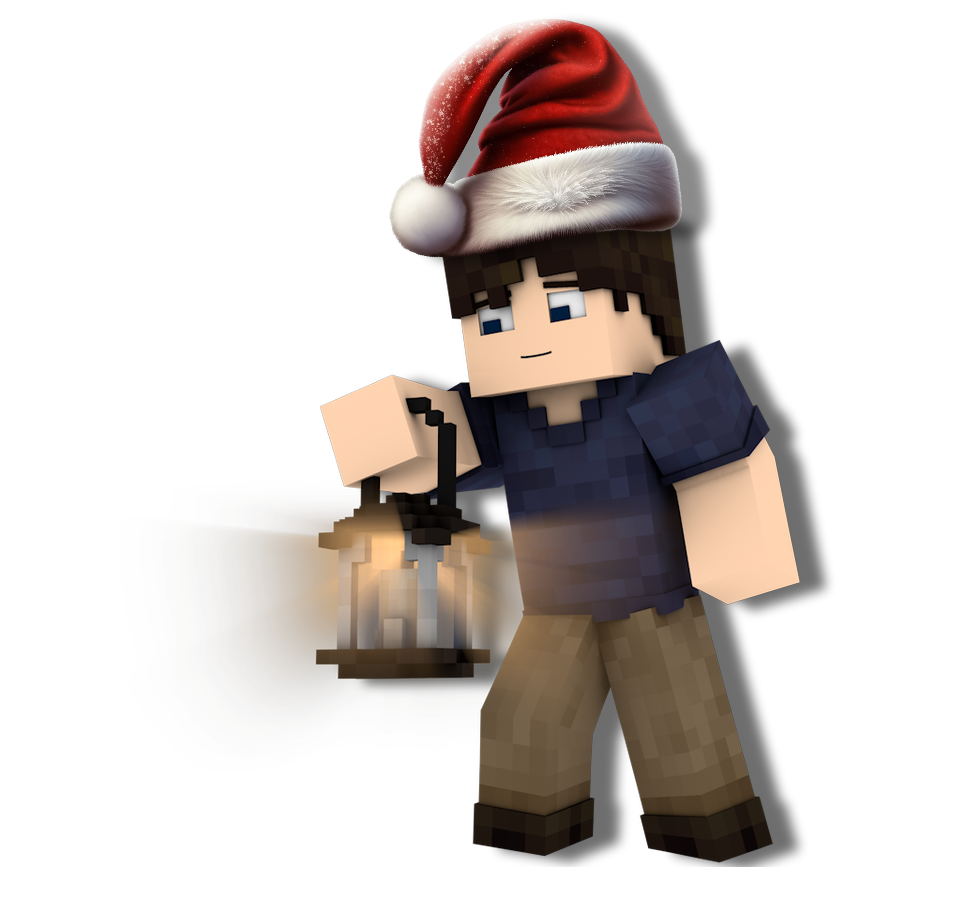
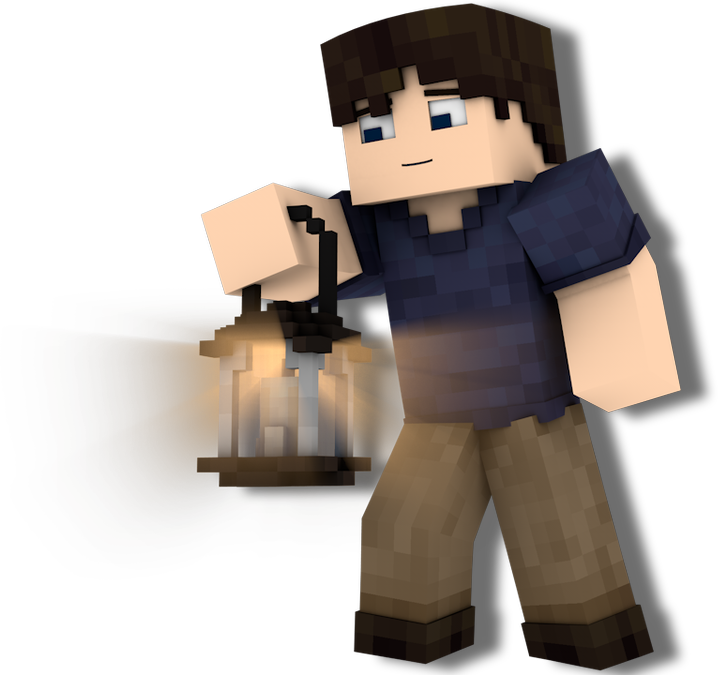
Revert "Xmas design changes."

diff --git a/css/style.css b/css/style.css
@@ -9,112 +9,11 @@
   Utility
 ---------------------------------------------*/
 
-
 .navbar-brand {
-    transform: scale(0.7);
-    transform-origin: center;
+    transform: scale(0.7); /* Zmniejsza logo do 50% oryginalnego rozmiaru */
+    transform-origin: center; /* Skalowanie od środka */
 }
 
-@import url('https://fonts.googleapis.com/css?family=Muli');
-body {
-  font-family: Arial;
-  font-family: 'Muli', sans-serif;
-}
-.nav-wrapper {
-  width: 300px;
-  margin: 100px auto;
-  text-align: center;
-}
-  .sl-nav {
-  display: inline;
-}
-.sl-nav ul {
-  margin:0;
-  padding:0;
-  list-style: none;
-  position: relative;
-  display: inline-block;
-}
-.sl-nav li {
-  cursor: pointer;
-  padding-bottom:10px;
-}
-.sl-nav li ul {
-  display: none;
-}
-.sl-nav li:hover ul {
-  position: absolute;
-  top:29px;
-  right:-15px;
-  display: block;
-  background: #fff;
-  width: 120px;
-  padding-top: 0px;
-  z-index: 1;
-  border-radius:5px;
-  box-shadow: 0px 0px 20px rgba(0,0,0,0.2);
-}
-.sl-nav li:hover .triangle {
-  position: absolute;
-  top: 15px;
-  right: -10px;
-  z-index:10;
-  height: 14px;
-  overflow:hidden;
-  width: 30px;
-  background: transparent;
-}
-.sl-nav li:hover .triangle:after {
-  content: '';
-  display: block;
-  z-index: 20;
-  width: 15px;
-  transform: rotate(45deg) translateY(0px) translatex(10px);
-  height: 15px;
-  background: #fff;
-  border-radius:2px 0px 0px 0px;
-  box-shadow: 0px 0px 20px rgba(0,0,0,0.2);
-}
-.sl-nav li ul li {
-  position: relative;
-  text-align: left;
-  background: transparent;
-  padding: 15px 15px;
-  padding-bottom:0;
-  z-index: 2;
-  font-size: 15px;
-  color: #3c3c3c;
-}
-.sl-nav li ul li:last-of-type {
-  padding-bottom: 15px;
-}
-.sl-nav li ul li span {
-  padding-left: 5px;
-}
-.sl-nav li ul li span:hover, .sl-nav li ul li span.active {
-  color: #146c78;
-}
-.sl-flag {
-  display: inline-block;
-  box-shadow: 0px 0px 3px rgba(0,0,0,0.4);
-  width: 15px;
-  height: 15px;
-  background: #aaa;
-  border-radius: 50%;
-  position: relative;
-  top: 2px;
-  overflow: hidden;
-}
-.flag-de {
[1 lines of base64/hex data omitted]
-  background-size: cover;
-  background-position: center center;
-}
-.flag-usa {
-  background-size: cover;
-  background-position: center center;
[1 lines of base64/hex data omitted]
-}
 
 :root {
   --primary-color: #0b0f18;
@@ -685,8 +584,8 @@ section {
 }
 
 #intro .server-image {
-  width: 200%;
-  height: auto;
+  width: 600px;
+  height: 600px;
   margin-top: -100px;
 }
 
@@ -775,9 +674,9 @@ section {
   margin-top: 32px;
   margin-bottom: 32px;
   padding: 24px 24px calc(0.1px) 50px;
-  
+  border-left: 4px solid;
   border-radius: 5px;
-  border-image: linear-gradient(to right, #BA3E44 0%, #56A47D 100%) 1; 
+  border-color: var(--orange-color);
 }
 
 .alert-icon {

diff --git a/index.html b/index.html
@@ -49,7 +49,6 @@
 	
 
     <main id="page">
-     <span id="flake0" style="cursor: default; user-select: none; position: absolute; font-family: inherit; font-size: 19px; color: rgb(221, 221, 221); z-index: 1000; left: 226px; top: 561px;">•</span>
       <div class="mobile-display">
         <div class="mobile-mask"></div>
         <div class="mobile-navbar">
@@ -117,19 +116,6 @@
         </div>
       </section>
 
-       <section class="container" role="alert" >
-        <div class="alert" style="background: #0A131E;">
-
-		  
-          <p class="alert-textbox" >
-            <span class="alert-text">
-              <span>
-                <span style="color: #FFFFFF; justify-content: center; display: flex;">Serdeczne życzenia z okazji Bożego Narodzenia składa Administracja ViseMC,   <b style="background: -webkit-linear-gradient(left, #BA3E44, #56A47D); -webkit-background-clip: text; -webkit-text-fill-color: transparent; font-weight:bold"> Wesołych Świąt!  <i style="background: -webkit-linear-gradient(left, #BA3E44, #56A47D); -webkit-background-clip: text; -webkit-text-fill-color: transparent;" height="1em" width="1em" class="fa-solid fa-tree"></i></b></span>
-              </span>
-            </span>
-          </p>
-        </div>
-      </section>
       <!-- 
       <section class="container" role="alert">
         <div class="alert">
@@ -208,6 +194,5 @@
     <script src="https://cdn.jsdelivr.net/npm/bootstrap@5.2.0/dist/js/bootstrap.bundle.min.js" integrity="sha384-A3rJD856KowSb7dwlZdYEkO39Gagi7vIsF0jrRAoQmDKKtQBHUuLZ9AsSv4jD4Xa" crossorigin="anonymous"></script>
     <script src="https://unpkg.com/swiper@8/swiper-bundle.min.js"></script>
     <script src="js/scripts.js"></script>
-    <script src="js/snow.js"></script>
   </body>
 </html>

diff --git a/savegame.html b/savegame.html
@@ -41,7 +41,6 @@
 	
 
     <main id="page">
-     <span id="flake0" style="cursor: default; user-select: none; position: absolute; font-family: inherit; font-size: 19px; color: rgb(221, 221, 221); z-index: 1000; left: 226px; top: 561px;">•</span>
       <div class="mobile-display">
         <div class="mobile-mask"></div>
         <div class="mobile-navbar">
@@ -200,6 +199,5 @@
     <script src="https://cdn.jsdelivr.net/npm/bootstrap@5.2.0/dist/js/bootstrap.bundle.min.js" integrity="sha384-A3rJD856KowSb7dwlZdYEkO39Gagi7vIsF0jrRAoQmDKKtQBHUuLZ9AsSv4jD4Xa" crossorigin="anonymous"></script>
     <script src="https://unpkg.com/swiper@8/swiper-bundle.min.js"></script>
     <script src="js/scripts.js"></script>
-    <script src="js/snow.js"></script>
   </body>
 </html>
